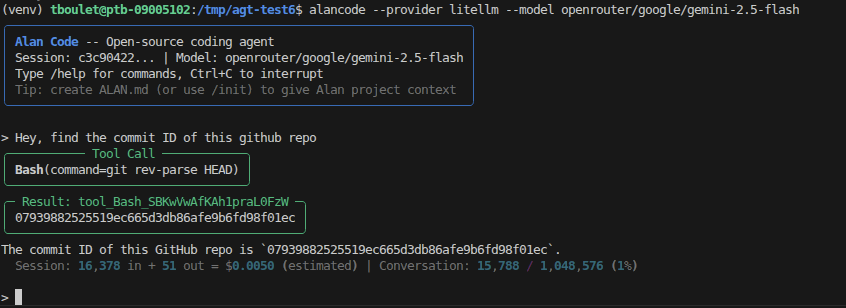
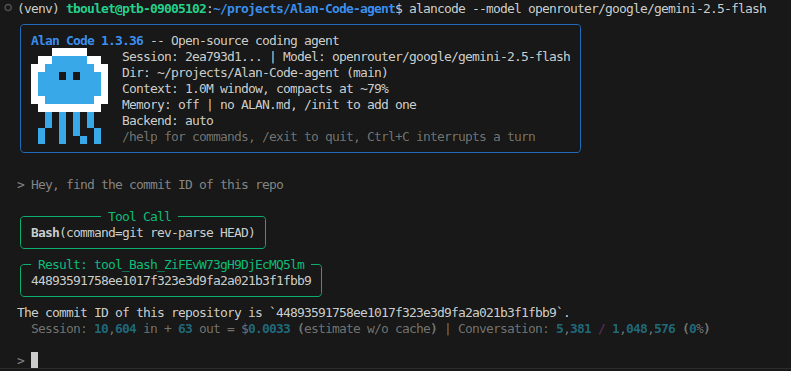
fix(readme): edit readme

Changed region(s): [[0.0, 0.0, 0.9709, 0.9058], [0.0, 0.9351, 0.0607, 0.9935]]

diff --git a/README.md b/README.md
@@ -212,6 +212,7 @@ See [docs/reference/python-api.md#programmatic-mode](docs/reference/python-api.m
 | Universal backend (`auto`) | LiteLLM transport for OpenAI, OpenRouter, Gemini, Ollama, vLLM, and many other model providers | default for non-Claude models |
 | Native Anthropic backend | Direct Anthropic SDK with `cache_control`, native thinking, native `tool_use` | default for bare `claude-*` names; force with `--backend anthropic-native` |
 | Local models | vLLM / SGLang / Ollama, with text-based tool-call fallback for models without native tool use | [docs](docs/reference/local-models.md) |
+| Vision | Models that can see view image files through the `ViewImage` tool | `--vision` or the `vision` setting |
 | Hooks | Pre/post-tool shell hooks for guardrails or logging | `.alan/settings.json` |
 | Skills | User-defined prompt + tool filter, discoverable at runtime | `/skill list`, `/skill create` |
 
@@ -244,31 +245,18 @@ Features of modern CLI coding agents that Alan Code does **not** ship with yet. 
 | **Subagents / Task tool** | planned | Spawn isolated sub-conversations with their own context for parallel exploration or delegation. |
 | **MCP (Model Context Protocol)** | planned | Connect external tool servers (databases, APIs, IDEs) through the MCP standard. |
 | **Plan mode** | planned | Force the agent to write and get approval for a plan before touching code. |
-| **Image input** | partial | A model with vision can view image files through the `ViewImage` tool (`vision` setting). Pasting or attaching images to the conversation is not supported yet. |
 | **Stop / PreCompact / PostCompact hooks** | partial | Only Pre/PostToolUse hooks are implemented today. |
 | **WebSearch tool** | planned | The WebFetch tool can fetch and summarize pages, but doesn't do active searching yet. |
 
 # What's new
 
-See [CHANGELOG.md](CHANGELOG.md) for the full history.
+- **2026-10-16 - Alan Code 1.3.30** - New `inserted_example_bash_use` setting (off by default): a new session starts with one real example of a shell command run by the agent, written in the model's tool-call format. Helps weaker models get the format right from their first reply.
+- **2026-10-12 - Alan Code 1.3.24 to 1.3.28** - Better behaviour with reasoning models. When a model writes its shell command at the end of its reasoning instead of in its reply, Alan now runs it. A new `carry_reasoning_until_call` setting keeps a model's reasoning visible to it until its next tool call, so it does not redo its analysis after a reply that ended without acting.
+- **2026-10-07 - Alan Code 1.3.19** - Vision: models that can see can now look at image files through the new `ViewImage` tool. Turn it on with `--vision` or the `vision` setting.
+- **2026-09-02 - Alan Code 1.3.14** - Alan the jellyfish joins the CLI banner, the GUI top bar, and this README. The welcome banner now shows the version, working directory, context window, memory mode and backend.
+- **2026-08-19 - Alan Code 1.3.11** - Better support for local models: new tool-call formats (`bash_block`, `kimi`, `kimi_k3`, `deepseek`, `minimax`, and `auto`, which detects the format), and an optional `persist_thinking` setting that shows a model its earlier reasoning again on later turns.
 
-- **2026-10-21 - Alan Code 1.3.31 to 1.3.36** - Hosted OpenAI-compatible endpoints: a rate-limited call waits out a per-minute quota, an unreachable host is reported as a connection error, and prompt-caching markers go only to Anthropic models (a strict server rejected them). The `deepseek` format reads DeepSeek-V4.1's call markup. The litellm requirement excludes the compromised releases 1.82.7, 1.82.8 and 1.107.0.
-- **2026-10-16 - Alan Code 1.3.29 and 1.3.30** - New `inserted_example_bash_use` setting: a new session opens with a real example `Bash` call in the session's tool-call format. A reply that ends on a bare or shell fenced block now gets the format error instead of counting as a final answer.
-- **2026-10-12 - Alan Code 1.3.24 to 1.3.28** - For reasoning models: `run_reasoning_closing_call` runs the bash block a reply's reasoning ends on when nothing visible follows, and `carry_reasoning_until_call` keeps a call-less reply's reasoning visible until the next tool call. Fixed a compaction loop after replies that report no token usage.
-- **2026-10-07 - Alan Code 1.3.19 to 1.3.23** - Vision: new `ViewImage` tool and `vision` setting, with images budgeted by their pixel count. New `stop_at_first_call` (default on): under `bash_block` a generation ends once its one call is written. Reasoning that is not re-sent no longer counts toward the context.
-- **2026-10-03 - Alan Code 1.3.18** - New `bash_timeout_ms` setting. A reply cut at the output limit no longer carries its tool calls, and compaction is more robust with reasoning models.
-- **2026-09-21 - Alan Code 1.3.17** - Breaking: `escalated_max_tokens` is removed; the output budget is one hard ceiling. A text-format tool call is replayed to the model as the markup it wrote, context-window discovery authenticates, and a timed-out command has its whole process group killed.
-- **2026-09-05 - Alan Code 1.3.15 and 1.3.16** - New `alancode.get_provenance()` (version and git SHA of the running source) and `agent.context_window_source`. The hard-truncation fallback now fires whenever a request is still too long after compaction.
-- **2026-09-02 - Alan Code 1.3.14** - Alan the jellyfish joins the CLI banner, the GUI top bar, and this README.
-- **2026-08-25 - Alan Code 1.3.13** - Compaction summarizer calls now show up in cost tracking, `ALANCODE_WIRE_LOG=<path>` dumps the exact provider request as JSONL for wire audits, and a tool relying on an inert v1 compatibility field says so. New [known-limitations reference](docs/reference/limitations.md).
-- **2026-08-24 - Alan Code 1.3.12** - Added two optional controls for local reasoning models: `no_verbalize_warning` (remind a model that acts without narrating) and `disable_thinking` (ask a server-side chat template to stop emitting reasoning). Also a documentation and code cleanup pass, including a CLI that no longer lags settings on tool-call formats.
-- **2026-08-19 - Alan Code 1.3.11** - Added optional cross-turn reasoning re-injection (`persist_thinking`) and bounded recovery for reasoning-only/empty replies. The 1.3.2-1.3.11 series also hardened max-output recovery and added `bash_block`, `kimi`, `kimi_k3`, `deepseek`, `minimax`, and auto-detected text tool-call formats for local models.
-- **2026-08-10 - Alan Code 1.3.1** - Fixed multi-turn tool use with Ollama and other strict OpenAI-compatible servers by serializing tool-only assistant messages with empty-string content instead of JSON `null`. Programmatic mode no longer injects the automatic date/time reminder.
-- **2026-08-08 - Alan Code 1.3** - Hardened slow/offline local-model operation, tool calls embedded in reasoning streams, timeout and context-window controls, backend lifecycle cleanup, concurrent shared-state writes, and error reporting. Internal transport terminology is now consistently `backend`, with obsolete GUI, REPL, and session complexity removed.
-- **2026-07-25 - Alan Code 1.2** - Context budgets now adapt to the model and reserve legal output space on every call. Long sessions recover from aggregate tool-output growth, prompt-too-long responses, and failed summarization through context-scaled truncation, retrying compaction, and a deterministic last-resort fallback. Local-model context windows can be resolved from server metadata or a cached probe, and interrupted turns retain valid tool-call history.
-- **2026-05-11 - Backend / model UX redesign** - `--backend` selects `auto`, `anthropic-native`, or `scripted`, and is inferred from `--model` when omitted. Bare Claude names use the native Anthropic SDK; everything else uses LiteLLM.
-- **2026-05-07 — Programmatic mode** — `AlanCodeAgent(programmatic=True, ...)` runs Alan as a library component for benchmark harnesses, parent agents, and unattended pipelines. Skips host-level state (`~/.alan/ALAN.md`, `~/.alan/memory/`, project `ALAN.md`) and the network/git/ask-user tools. New `tools=` and `disabled_tools=` constructor params for fine-grained tool control.
-- **2026-04-28 — Prompt caching** — Alan now places `cache_control` breakpoints on tool definitions, system prompt, and conversation history, for both backends. System prompt was optimized to avoid cache-killing dynamic content. Reduce the cost of Alan Code. (Since 1.3.33 the LiteLLM backend sends these markers only to Anthropic models; local servers cache prefixes on their own.)
+See [CHANGELOG.md](CHANGELOG.md) for the full history.
 
 # Further reading
 
